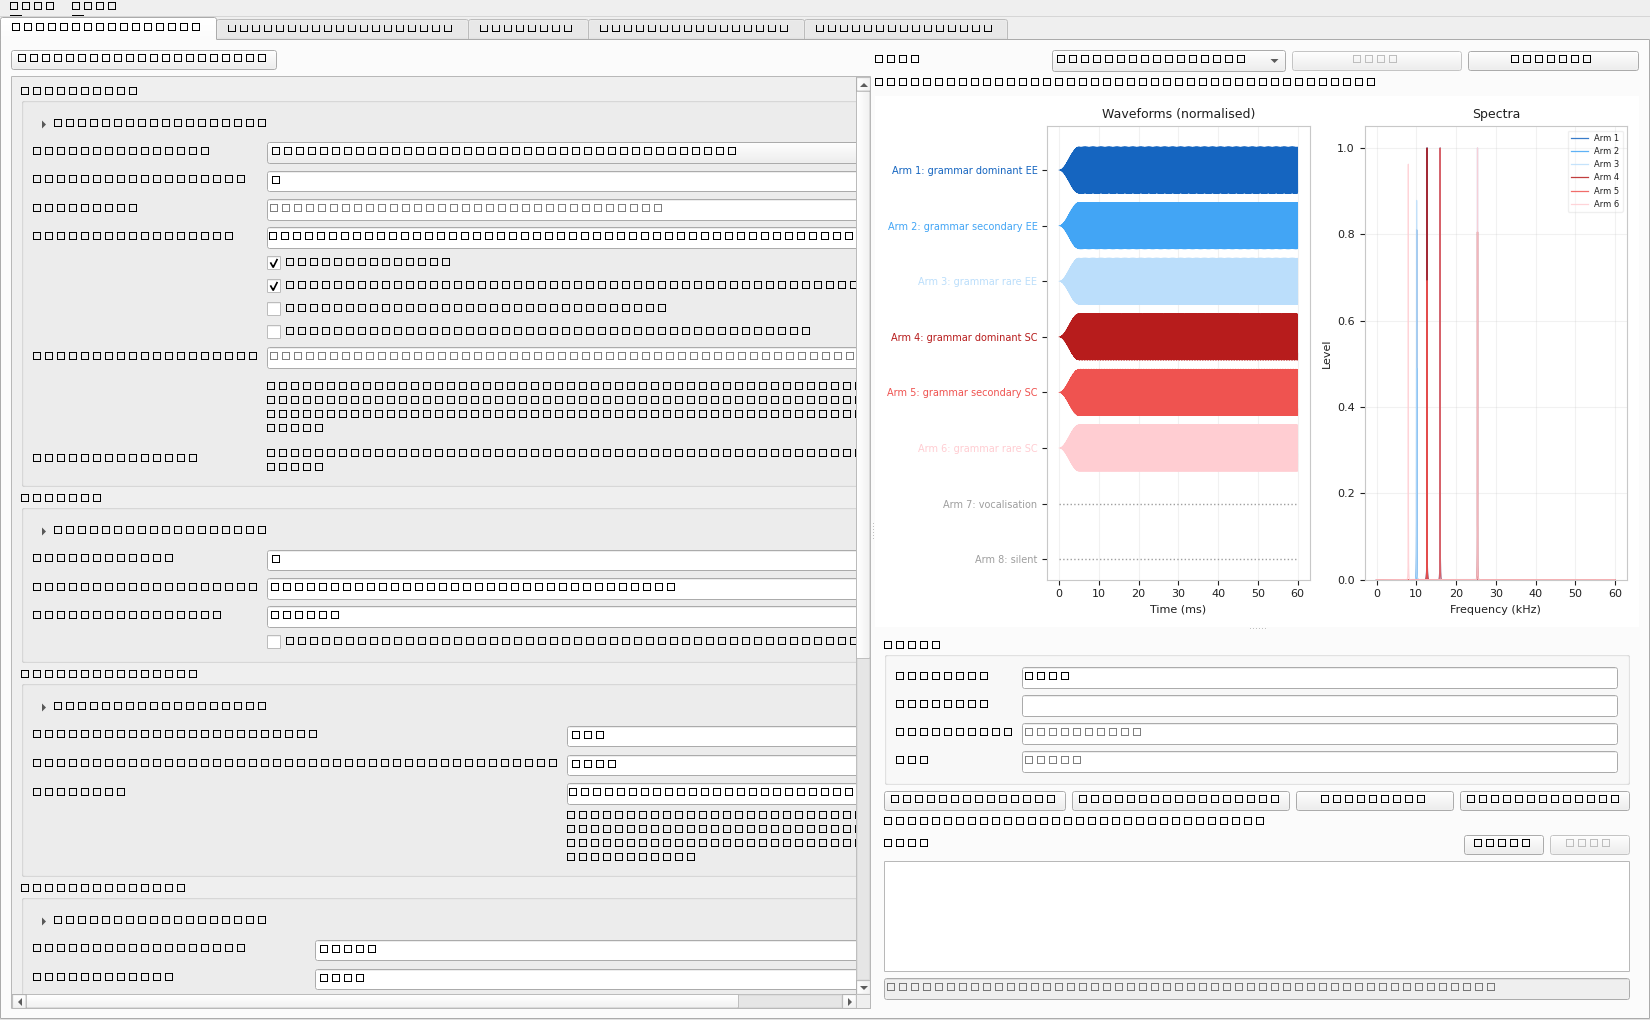
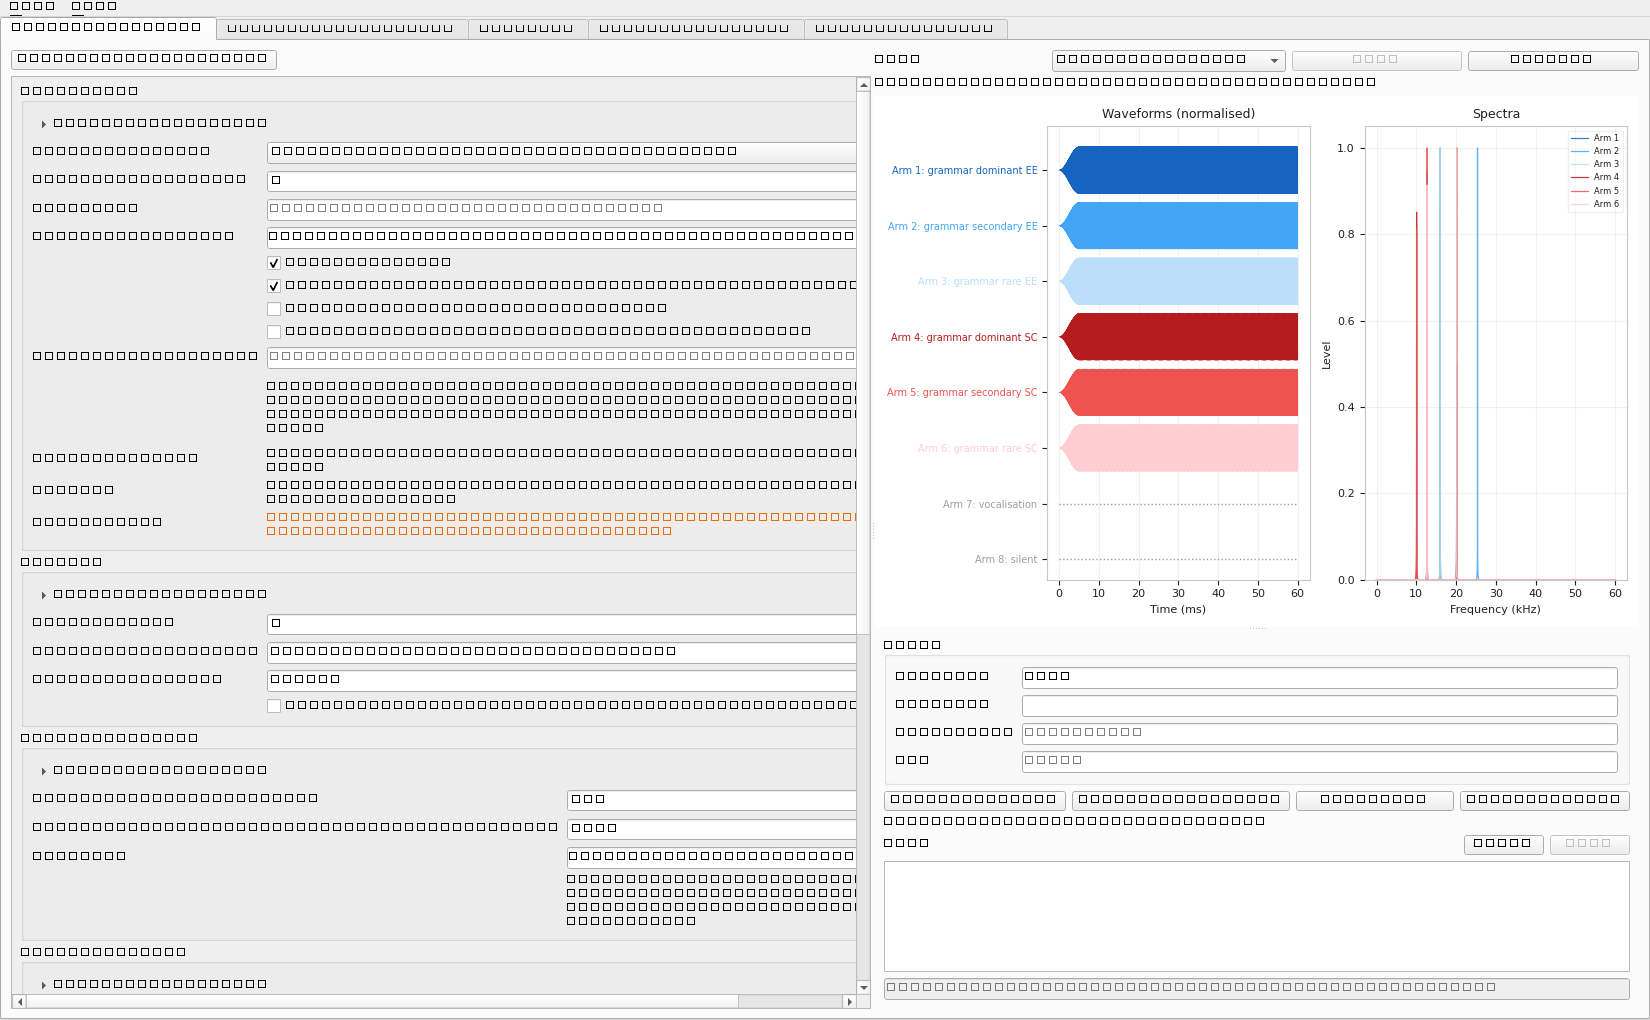
Say when a recording is missing instead of calling the arm silent
A vocalisation arm with no file selected showed as "This arm is silent",
which is the same thing the interface says about a deliberately silent
control arm. They are different situations: one is the design, the other
is a setting you have not filled in.

Underneath, a missing file is quiet rather than loud. Audio.load_wav
returns silence and prints a note, so a session would run with a silent
arm where a recording was intended and nothing in the data would say so.

- ExperimentConfig.missing_audio_files() reports every recording the
  selected mode needs but cannot find, as readable lines;
  check_audio_files() raises. It covers the vocalisation control arm of
  the modulation, interval and sequence designs, the grammar test's
  vocalisation arm, the folder in vocalisation mode, and every wav row in
  custom mode.
- The form gains a "Sound files" line saying either that everything was
  found or which file is missing, in orange, and Start session and Draw
  ROIs refuse until it is resolved.
- The stimulus preview distinguishes the two cases: a silent-by-design arm
  says so plainly, an arm whose file is missing shows the reason.
- Stimulus labels no longer read "interval vocalisation"; a value that
  names a stimulus outright is not prefixed.
- Documented in the experiment modes page and the vocalisation files help.

198 tests pass.

diff --git a/tests/test_mode_parameters.py b/tests/test_mode_parameters.py
@@ -242,3 +242,82 @@ class TestStimulusCountMatchesArmCount:
             cfg.check_stimulus_count()
         ExperimentConfig(experiment_mode="grammar", grammar_mode="test",
                          rois_number=8).check_stimulus_count()
+
+
+class TestMissingAudioFiles:
+    """A missing recording plays as silence, so it must be reported."""
+
+    def test_vocalisation_control_not_set(self):
+        from amazeing.auditory.config import ExperimentConfig
+        cfg = ExperimentConfig(experiment_mode="temporal_envelope_modulation")
+        problems = cfg.missing_audio_files()
+        assert problems and "control vocalisation" in problems[0]
+        with pytest.raises(ValueError, match="control vocalisation"):
+            cfg.check_audio_files()
+
+    def test_vocalisation_control_set_but_absent(self, tmp_path):
+        from amazeing.auditory.config import ExperimentConfig
+        cfg = ExperimentConfig(experiment_mode="complex_intervals",
+                               path_to_vocalisation_control=str(tmp_path / "nope.wav"))
+        assert "does not exist" in cfg.missing_audio_files()[0]
+
+    def test_a_real_file_satisfies_it(self, tmp_path):
+        from amazeing.auditory.config import ExperimentConfig
+        wav = tmp_path / "call.wav"
+        wav.write_bytes(b"RIFF")
+        cfg = ExperimentConfig(experiment_mode="temporal_envelope_modulation",
+                               path_to_vocalisation_control=str(wav))
+        assert cfg.missing_audio_files() == []
+        cfg.check_audio_files()
+
+    def test_no_control_arm_means_no_file_needed(self):
+        from amazeing.auditory.config import ExperimentConfig
+        cfg = ExperimentConfig(experiment_mode="temporal_envelope_modulation",
+                               tem_controls=["silent"])
+        assert cfg.missing_audio_files() == []
+
+    def test_vocalisation_mode_needs_a_folder_with_wavs(self, tmp_path):
+        from amazeing.auditory.config import ExperimentConfig
+        cfg = ExperimentConfig(experiment_mode="vocalisation",
+                               path_to_vocalisation_folder=str(tmp_path))
+        assert "no .wav files" in cfg.missing_audio_files()[0]
+        (tmp_path / "a.wav").write_bytes(b"RIFF")
+        assert ExperimentConfig(experiment_mode="vocalisation",
+                                path_to_vocalisation_folder=str(tmp_path)
+                                ).missing_audio_files() == []
+
+    def test_custom_wav_arm_is_checked(self, tmp_path):
+        from amazeing.auditory.config import ExperimentConfig
+        cfg = ExperimentConfig(experiment_mode="custom", rois_number=2,
+                               custom_stimuli=[{"roi": "1", "kind": "wav",
+                                                "path": str(tmp_path / "x.wav")}])
+        assert "arm 1" in cfg.missing_audio_files()[0]
+
+    def test_preview_explains_the_silence(self):
+        from amazeing.app.stimulus_preview import preview_stimuli
+        from amazeing.auditory.config import ExperimentConfig
+        cfg = ExperimentConfig(experiment_mode="temporal_envelope_modulation",
+                               rois_number=8)
+        voc = [p for p in preview_stimuli(cfg, duration_s=0.02)
+               if p.label == "vocalisation"]
+        assert voc, "no vocalisation arm in the preview"
+        assert voc[0].is_silent
+        assert "vocalisation" in voc[0].note.lower()
+
+    def test_a_deliberately_silent_arm_has_no_note(self):
+        from amazeing.app.stimulus_preview import preview_stimuli
+        from amazeing.auditory.config import ExperimentConfig
+        cfg = ExperimentConfig(experiment_mode="custom", rois_number=2,
+                               custom_stimuli=[{"roi": "1", "kind": "tone",
+                                                "frequency": 9000}])
+        silent = preview_stimuli(cfg, duration_s=0.02)[1]
+        assert silent.is_silent and silent.note == ""
+
+    def test_label_does_not_read_interval_vocalisation(self):
+        from amazeing.app.stimulus_preview import preview_stimuli
+        from amazeing.auditory.config import ExperimentConfig
+        labels = [p.label for p in preview_stimuli(
+            ExperimentConfig(experiment_mode="complex_intervals", rois_number=8),
+            duration_s=0.02)]
+        assert "vocalisation" in labels
+        assert not any(l.startswith("interval vocalisation") for l in labels)

diff --git a/src/amazeing/auditory/config.py b/src/amazeing/auditory/config.py
@@ -288,6 +288,59 @@ class ExperimentConfig:
 
         return None
 
+    def missing_audio_files(self) -> List[str]:
+        """Problems with the sound files this mode needs, as readable lines.
+
+        A missing file is not a crash: ``Audio.load_wav`` returns silence and
+        prints a note, so the session runs with a silent arm where a recording
+        was intended. That is a scientifically meaningful failure hiding in
+        console output, which is why it is reported here instead.
+        """
+        problems: List[str] = []
+
+        def needs_control(reason: str) -> None:
+            if not self.path_to_vocalisation_control:
+                problems.append(f"{reason} needs a control vocalisation .wav, "
+                                f"but none is set")
+            elif not os.path.isfile(self.path_to_vocalisation_control):
+                problems.append(f"{reason}: the control vocalisation file does "
+                                f"not exist ({self.path_to_vocalisation_control})")
+
+        mode = self.experiment_mode
+        if mode == "temporal_envelope_modulation" and "vocalisation" in self.tem_controls:
+            needs_control("the vocalisation control arm")
+        elif mode == "complex_intervals":
+            if "vocalisation" in self.resolve_complex_interval_day()["controls"]:
+                needs_control("the vocalisation control arm")
+        elif mode == "sequences" and "vocalisation" in self.sequence_patterns:
+            needs_control("the vocalisation pattern")
+        elif mode == "grammar" and self.grammar_mode == "test":
+            needs_control("the grammar test's vocalisation arm")
+        elif mode == "vocalisation":
+            folder = self.path_to_vocalisation_folder
+            if not folder or not os.path.isdir(folder):
+                problems.append(f"vocalisation mode needs a folder of .wav files "
+                                f"({folder or 'none set'} is not a folder)")
+            else:
+                wavs = [f for f in os.listdir(folder) if f.lower().endswith(".wav")]
+                if not wavs:
+                    problems.append(f"no .wav files in {folder}")
+        elif mode == "custom":
+            for spec in self.custom_stimuli:
+                if str(spec.get("kind", "")).lower() != "wav":
+                    continue
+                path = spec.get("path", "")
+                if not path or not os.path.isfile(path):
+                    problems.append(f"arm {spec.get('roi', '?')}: the .wav file does "
+                                    f"not exist ({path or 'none set'})")
+        return problems
+
+    def check_audio_files(self) -> None:
+        """Raise if a sound file this mode needs is missing."""
+        problems = self.missing_audio_files()
+        if problems:
+            raise ValueError("; ".join(problems))
+
     def check_stimulus_count(self) -> None:
         """Raise if this mode's stimuli do not fill exactly ``rois_number`` arms.
 

diff --git a/src/amazeing/app/stimulus_preview.py b/src/amazeing/app/stimulus_preview.py
@@ -24,6 +24,12 @@ class StimulusPreview:
     samplerate: int
     wave: np.ndarray         # mono float waveform
     is_silent: bool
+    note: str = ""           # why it is silent, when that is not by design
+
+
+# Values that name a stimulus outright, so they should not be prefixed with
+# "interval" or "pattern" ("interval vocalisation" reads badly).
+_SELF_DESCRIBING = {"vocalisation", "silent", "silence", "silent_arm", "control"}
 
 
 def _label_for(row) -> str:
@@ -33,7 +39,7 @@ def _label_for(row) -> str:
                      ("pattern", "pattern {}")):
         val = row.get(key, None)
         if isinstance(val, str) and val and val not in ("0", "none"):
-            base = fmt.format(val)
+            base = val if val in _SELF_DESCRIBING else fmt.format(val)
             break
     else:
         base = ""
@@ -136,6 +142,9 @@ def preview_stimuli(cfg: ExperimentConfig, duration_s: float = 0.3) -> List[Stim
     finally:
         builtins.input = real_input
     active = df[df["trial_ID"] == 2] if (df["trial_ID"] == 2).any() else df
+    # Any missing sound file, so a silent arm can explain itself.
+    problems = c.missing_audio_files()
+    file_problems = {"vocalisation": problems[0]} if problems else {}
     out: List[StimulusPreview] = []
     for _, row in active.iterrows():
         arm = str(row["ROIs"])
@@ -143,11 +152,18 @@ def preview_stimuli(cfg: ExperimentConfig, duration_s: float = 0.3) -> List[Stim
         silent = wave is None or not np.any(wave)
         if wave is None:
             wave = np.zeros(int(c.samplerate * duration_s))
+        category = _category_for(row)
+        note = ""
+        if silent and category not in ("silent", "silent_trial"):
+            # An arm that was meant to carry a recording came out empty,
+            # which means the file is missing rather than the arm being silent.
+            note = file_problems.get(category, "") or (
+                "no sound was produced for this arm; check the file it uses")
         out.append(StimulusPreview(
             arm=arm, label=_label_for(row),
-            category="silent" if silent else _category_for(row),
+            category="silent" if silent else category,
             samplerate=c.samplerate, wave=np.asarray(wave, dtype=float),
-            is_silent=silent))
+            is_silent=silent, note=note))
     return out
 
 

diff --git a/src/amazeing/app/config_form.py b/src/amazeing/app/config_form.py
@@ -190,6 +190,9 @@ class ConfigForm(QWidget):
         self.stimulus_label = QLabel()
         self.stimulus_label.setWordWrap(True)
         f.addRow("Stimuli", self.stimulus_label)
+        self.files_label = QLabel()
+        self.files_label.setWordWrap(True)
+        f.addRow("Sound files", self.files_label)
 
     def _build_devices(self):
         f = self._group("devices", "Devices")
@@ -421,7 +424,28 @@ class ConfigForm(QWidget):
     def _on_change(self, *_):
         self._update_schedule_label()
         self._update_stimulus_label()
+        self._update_files_label()
         self.changed.emit()
+
+    def _update_files_label(self):
+        """Report any recording the mode needs but cannot find.
+
+        A missing file is silent rather than loud: the session would run with
+        a silent arm where a recording was intended.
+        """
+        if not hasattr(self, "files_label"):
+            return
+        try:
+            problems = self.to_config().missing_audio_files()
+        except Exception:
+            self.files_label.setText("")
+            return
+        if problems:
+            self.files_label.setText("; ".join(problems))
+            self.files_label.setStyleSheet("color: #EF6C00; font-weight: bold;")
+        else:
+            self.files_label.setText("all the recordings this mode needs were found")
+            self.files_label.setStyleSheet("")
 
     def _update_stimulus_label(self):
         """State how the mode's stimuli fill the arms, and flag a mismatch."""
@@ -696,7 +720,9 @@ class ConfigForm(QWidget):
 
     def check_ready(self) -> None:
         """Raise ValueError if the current form could not run a session."""
-        self.to_config().check_stimulus_count()
+        cfg = self.to_config()
+        cfg.check_stimulus_count()
+        cfg.check_audio_files()
 
     def from_config(self, cfg: ExperimentConfig) -> None:
         w = self.w
@@ -775,6 +801,7 @@ class ConfigForm(QWidget):
         if hasattr(self, "schedule_label"):
             self._update_schedule_label()
             self._update_stimulus_label()
+            self._update_files_label()
 
 
 # ------------------------------------------------------------------ parsing

diff --git a/tests/test_app.py b/tests/test_app.py
@@ -341,6 +341,10 @@ class TestPaletteAndHelp:
         from amazeing.app.config_form import ConfigForm
         form = ConfigForm()
         form.set_mode("temporal_envelope_modulation")
+        # Drop the vocalisation arm so this test is only about the count;
+        # the file check has its own test below.
+        form.w["tem_control_voc"].setChecked(False)
+        form.w["tem_smooth_freqs"].setText("10000, 20000, 30000")
         form.w["rois_number"].setValue(8)
         assert "8 stimuli for 8 arms" in form.stimulus_label.text()
         form.w["rois_number"].setValue(4)
@@ -348,4 +352,21 @@ class TestPaletteAndHelp:
         with pytest.raises(ValueError, match="arms"):
             form.check_ready()
         form.w["rois_number"].setValue(8)
+        form.check_ready()
+
+    def test_form_reports_a_missing_recording(self, qapp, tmp_path):
+        """A missing .wav plays as silence, so the form must say so and block."""
+        from amazeing.app.config_form import ConfigForm
+        form = ConfigForm()
+        form.set_mode("temporal_envelope_modulation")
+        form.w["rois_number"].setValue(8)
+        form.w["path_to_vocalisation_control"].setText("")
+        assert "control vocalisation" in form.files_label.text()
+        with pytest.raises(ValueError, match="control vocalisation"):
+            form.check_ready()
+
+        wav = tmp_path / "call.wav"
+        wav.write_bytes(b"RIFF")
+        form.w["path_to_vocalisation_control"].setText(str(wav))
+        assert "were found" in form.files_label.text()
         form.check_ready()

diff --git a/src/amazeing/app/help_text.py b/src/amazeing/app/help_text.py
@@ -145,7 +145,13 @@ SECTION_HELP = {
     "voc_files": (
         "The folder supplies one arm per file in vocalisation mode. The control "
         "file is the single recording used on the vocalisation arm of the mixed "
-        "designs; leave it empty and that arm is silent, which the session will "
-        "warn about at startup rather than failing."
+        "designs.<br><br>"
+        "A missing file is not loud: the loader returns silence, so the session "
+        "would run with a silent arm where a recording was meant to be, and "
+        "nothing in the data would say so. The Sound files line under Experiment "
+        "therefore checks, and a session will not start until every recording "
+        "the mode needs has been found.<br><br>"
+        "If you do not want a vocalisation arm at all, untick it in the mode's "
+        "control arms rather than leaving the file empty."
     ),
 }

diff --git a/src/amazeing/app/waveform_panel.py b/src/amazeing/app/waveform_panel.py
@@ -167,8 +167,11 @@ class WaveformPanel(QWidget):
         if p is None:
             return
         if p.is_silent:
-            lab = QLabel("This arm is silent.")
+            lab = QLabel(p.note or "This arm is silent by design.")
+            lab.setWordWrap(True)
             lab.setAlignment(Qt.AlignCenter)
+            if p.note:
+                lab.setStyleSheet("color: #EF6C00;")
             self.canvas_layout.addWidget(lab)
             return
         fig, Canvas = self._figure(5.4)

diff --git a/src/amazeing/app/session_tab.py b/src/amazeing/app/session_tab.py
@@ -120,6 +120,7 @@ class SessionTab(QWidget):
         """Validate the form and write it to <recordings>/session_configs/."""
         cfg = self.form.to_config()
         cfg.check_stimulus_count()
+        cfg.check_audio_files()
         folder = os.path.join(cfg.base_output_path, "session_configs")
         stamp = time.strftime("%Y-%m-%d_%H_%M_%S")
         path = os.path.join(folder, f"{stamp}_{tag}.yaml")

diff --git a/docs/guide/experiment-modes.md b/docs/guide/experiment-modes.md
@@ -34,3 +34,28 @@ If the two disagree the line turns orange and says the session will not start. S
 | Grammar, test day | always 8: six grammar arms, a vocalisation arm and a silent arm |
 | Pure tones | any number; a short frequency list is recycled |
 | Sequences, vocalisations, custom | any number; unlisted arms are silent |
+
+
+## Recordings the mode needs
+
+Several modes play a `.wav` file: the vocalisation control arm of the modulation
+and interval designs, the vocalisation pattern in sequences, the vocalisation
+arm of the grammar test, every arm in vocalisation mode, and any `wav` row in
+custom mode.
+
+A missing file does not stop anything on its own. The loader returns silence and
+prints a note, so the session would run with a **silent arm where a recording was
+intended**, and nothing in the data would say so.
+
+The form therefore checks. A **Sound files** line under Experiment says either
+that everything was found, or which file is missing, and Start session refuses
+until it is resolved. The stimulus preview says the same thing for the affected
+arm, rather than describing it as silent:
+
+> the vocalisation control arm needs a control vocalisation .wav, but none is set
+
+Set the file in the **Vocalisation files** section: the folder supplies one arm
+per file in vocalisation mode, and the control file is the single recording used
+on the vocalisation arm of the mixed designs. If you do not want a vocalisation
+arm at all, untick it in the mode's control arms instead of leaving the file
+empty.
